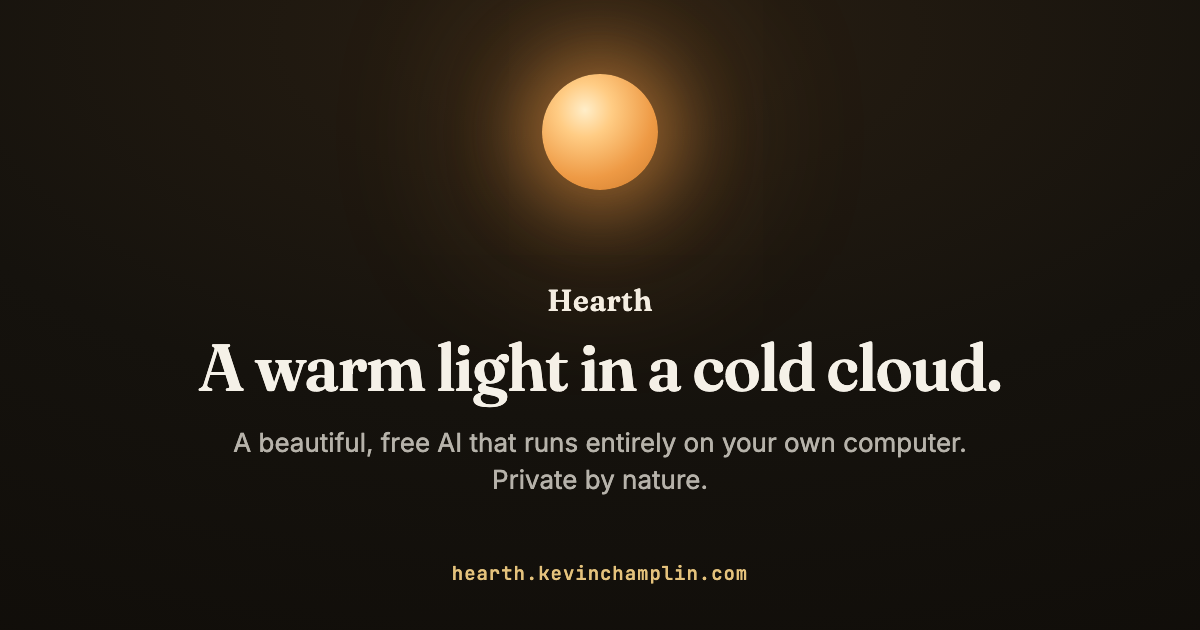
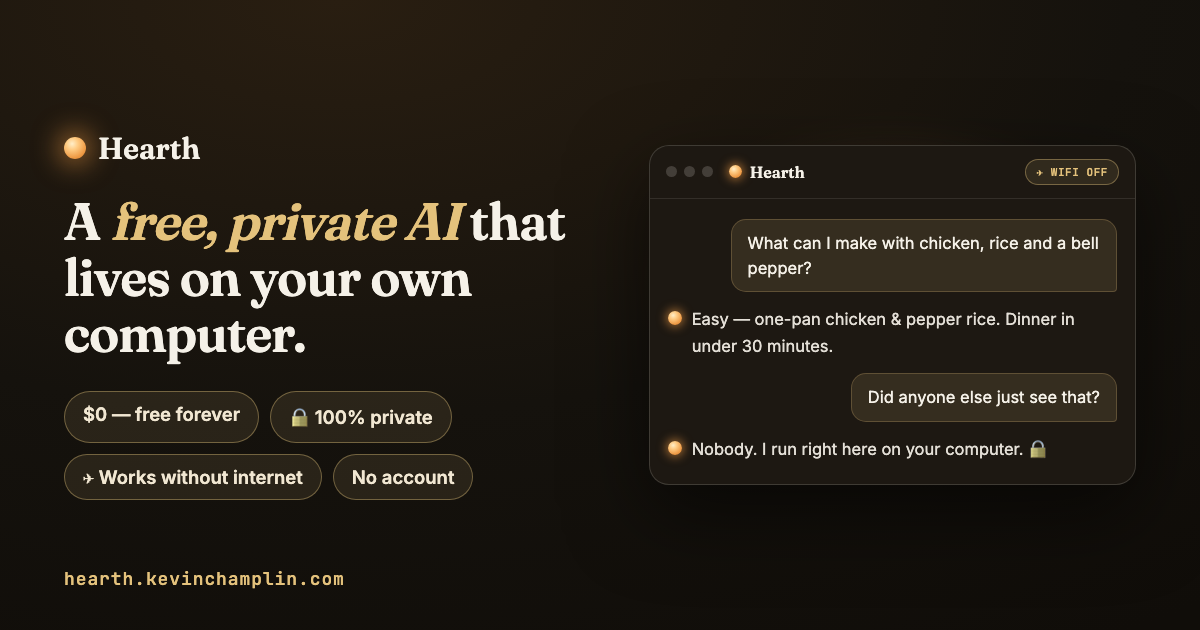
feat(og): redesign social card — 'free, private AI' legible at a glance
Headline + four value pills + mini chat window with the privacy exchange
and wifi-off badge, matching the new hero. Cache-busted (?v=2), alt added.

diff --git a/site/index.html b/site/index.html
@@ -9,13 +9,14 @@
 <meta property="og:description" content="No account. No subscription. Nothing you say leaves your machine — and it works without internet. One download and it's yours, forever." />
 <meta property="og:type" content="website" />
 <meta property="og:url" content="https://hearth.kevinchamplin.com/" />
-<meta property="og:image" content="https://hearth.kevinchamplin.com/assets/og.png" />
+<meta property="og:image" content="https://hearth.kevinchamplin.com/assets/og.png?v=2" />
+<meta property="og:image:alt" content="Hearth — a free, private AI that lives on your own computer. $0 forever, 100% private, works without internet, no account." />
 <meta property="og:image:width" content="1200" />
 <meta property="og:image:height" content="630" />
 <meta name="twitter:card" content="summary_large_image" />
 <meta name="twitter:title" content="Hearth — Free, Private AI That Runs on Your Computer" />
 <meta name="twitter:description" content="No account. No subscription. Nothing you say leaves your machine — and it works without internet. One download and it's yours, forever." />
-<meta name="twitter:image" content="https://hearth.kevinchamplin.com/assets/og.png" />
+<meta name="twitter:image" content="https://hearth.kevinchamplin.com/assets/og.png?v=2" />
 <link rel="canonical" href="https://hearth.kevinchamplin.com/" />
 <link rel="icon" href="/favicon.svg" type="image/svg+xml" />
 <script type="application/ld+json">{"@context":"https://schema.org","@graph":[{"@type":"Organization","@id":"https://hearth.kevinchamplin.com/#org","name":"Hearth","url":"https://hearth.kevinchamplin.com/","logo":"https://hearth.kevinchamplin.com/favicon.svg","sameAs":["https://github.com/Kevinchamplin/hearth"],"founder":{"@type":"Person","name":"Kevin Champlin","url":"https://kevinchamplin.com"}},{"@type":"WebSite","@id":"https://hearth.kevinchamplin.com/#site","url":"https://hearth.kevinchamplin.com/","name":"Hearth","description":"A beautiful, free AI that runs entirely on your own computer.","publisher":{"@id":"https://hearth.kevinchamplin.com/#org"}},{"@type":"SoftwareApplication","name":"Hearth","applicationCategory":"UtilitiesApplication","operatingSystem":"Web (Chrome, Edge), macOS, Windows, Linux","offers":{"@type":"Offer","price":"0","priceCurrency":"USD"},"description":"A beautiful, free, fully-local AI that runs on your own device — private, unlimited, and offline.","url":"https://hearth.kevinchamplin.com/","author":{"@id":"https://hearth.kevinchamplin.com/#org"}}]}</script>

diff --git a/site/partials/head.php b/site/partials/head.php
@@ -2,7 +2,7 @@
 $title = $title ?? 'Hearth';
 $desc  = $desc  ?? 'A warm, private AI that runs on your own computer.';
 $canon = 'https://hearth.kevinchamplin.com' . strtok($_SERVER['REQUEST_URI'] ?? '/', '?');
-$ogimg = 'https://hearth.kevinchamplin.com/assets/og.png';
+$ogimg = 'https://hearth.kevinchamplin.com/assets/og.png?v=2';
 $font  = 'https://fonts.googleapis.com/css2?family=Fraunces:opsz,wght@9..144,400;9..144,500;9..144,600&family=Inter:wght@400;500;600&family=JetBrains+Mono:wght@500&display=swap';
 $hh = fn($v) => htmlspecialchars((string)$v, ENT_QUOTES);
 ?><!DOCTYPE html>

diff --git a/CHANGELOG.md b/CHANGELOG.md
@@ -4,6 +4,14 @@ All notable changes to Hearth are documented here.
 
 ## [Unreleased]
 
+### Changed (2026-06-11, hearth-og-card-v2) [0.25h]
+- Redesigned the OG/social card to match the new hero and to make "this is an AI" legible at a
+  glance (the old card was ember + poetry only). New 1200×630: headline "A **free, private AI**
+  that lives on your own computer" (brass italics), four value pills ($0 free forever · 🔒 100%
+  private · ✈ works without internet · no account), and a mini chat window with the dinner +
+  privacy exchange and the wifi-off badge. Cache-busted via `?v=2` on all og:image/twitter:image
+  references; `og:image:alt` added.
+
 ### Added (2026-06-11, hearth-syscheck-sticky-credit) [1h]
 - **"Will it run on my computer?" checker** on the landing (honest-details section): one click
   reads what the browser can see — AI-capable browser (WebGPU), memory, free space
